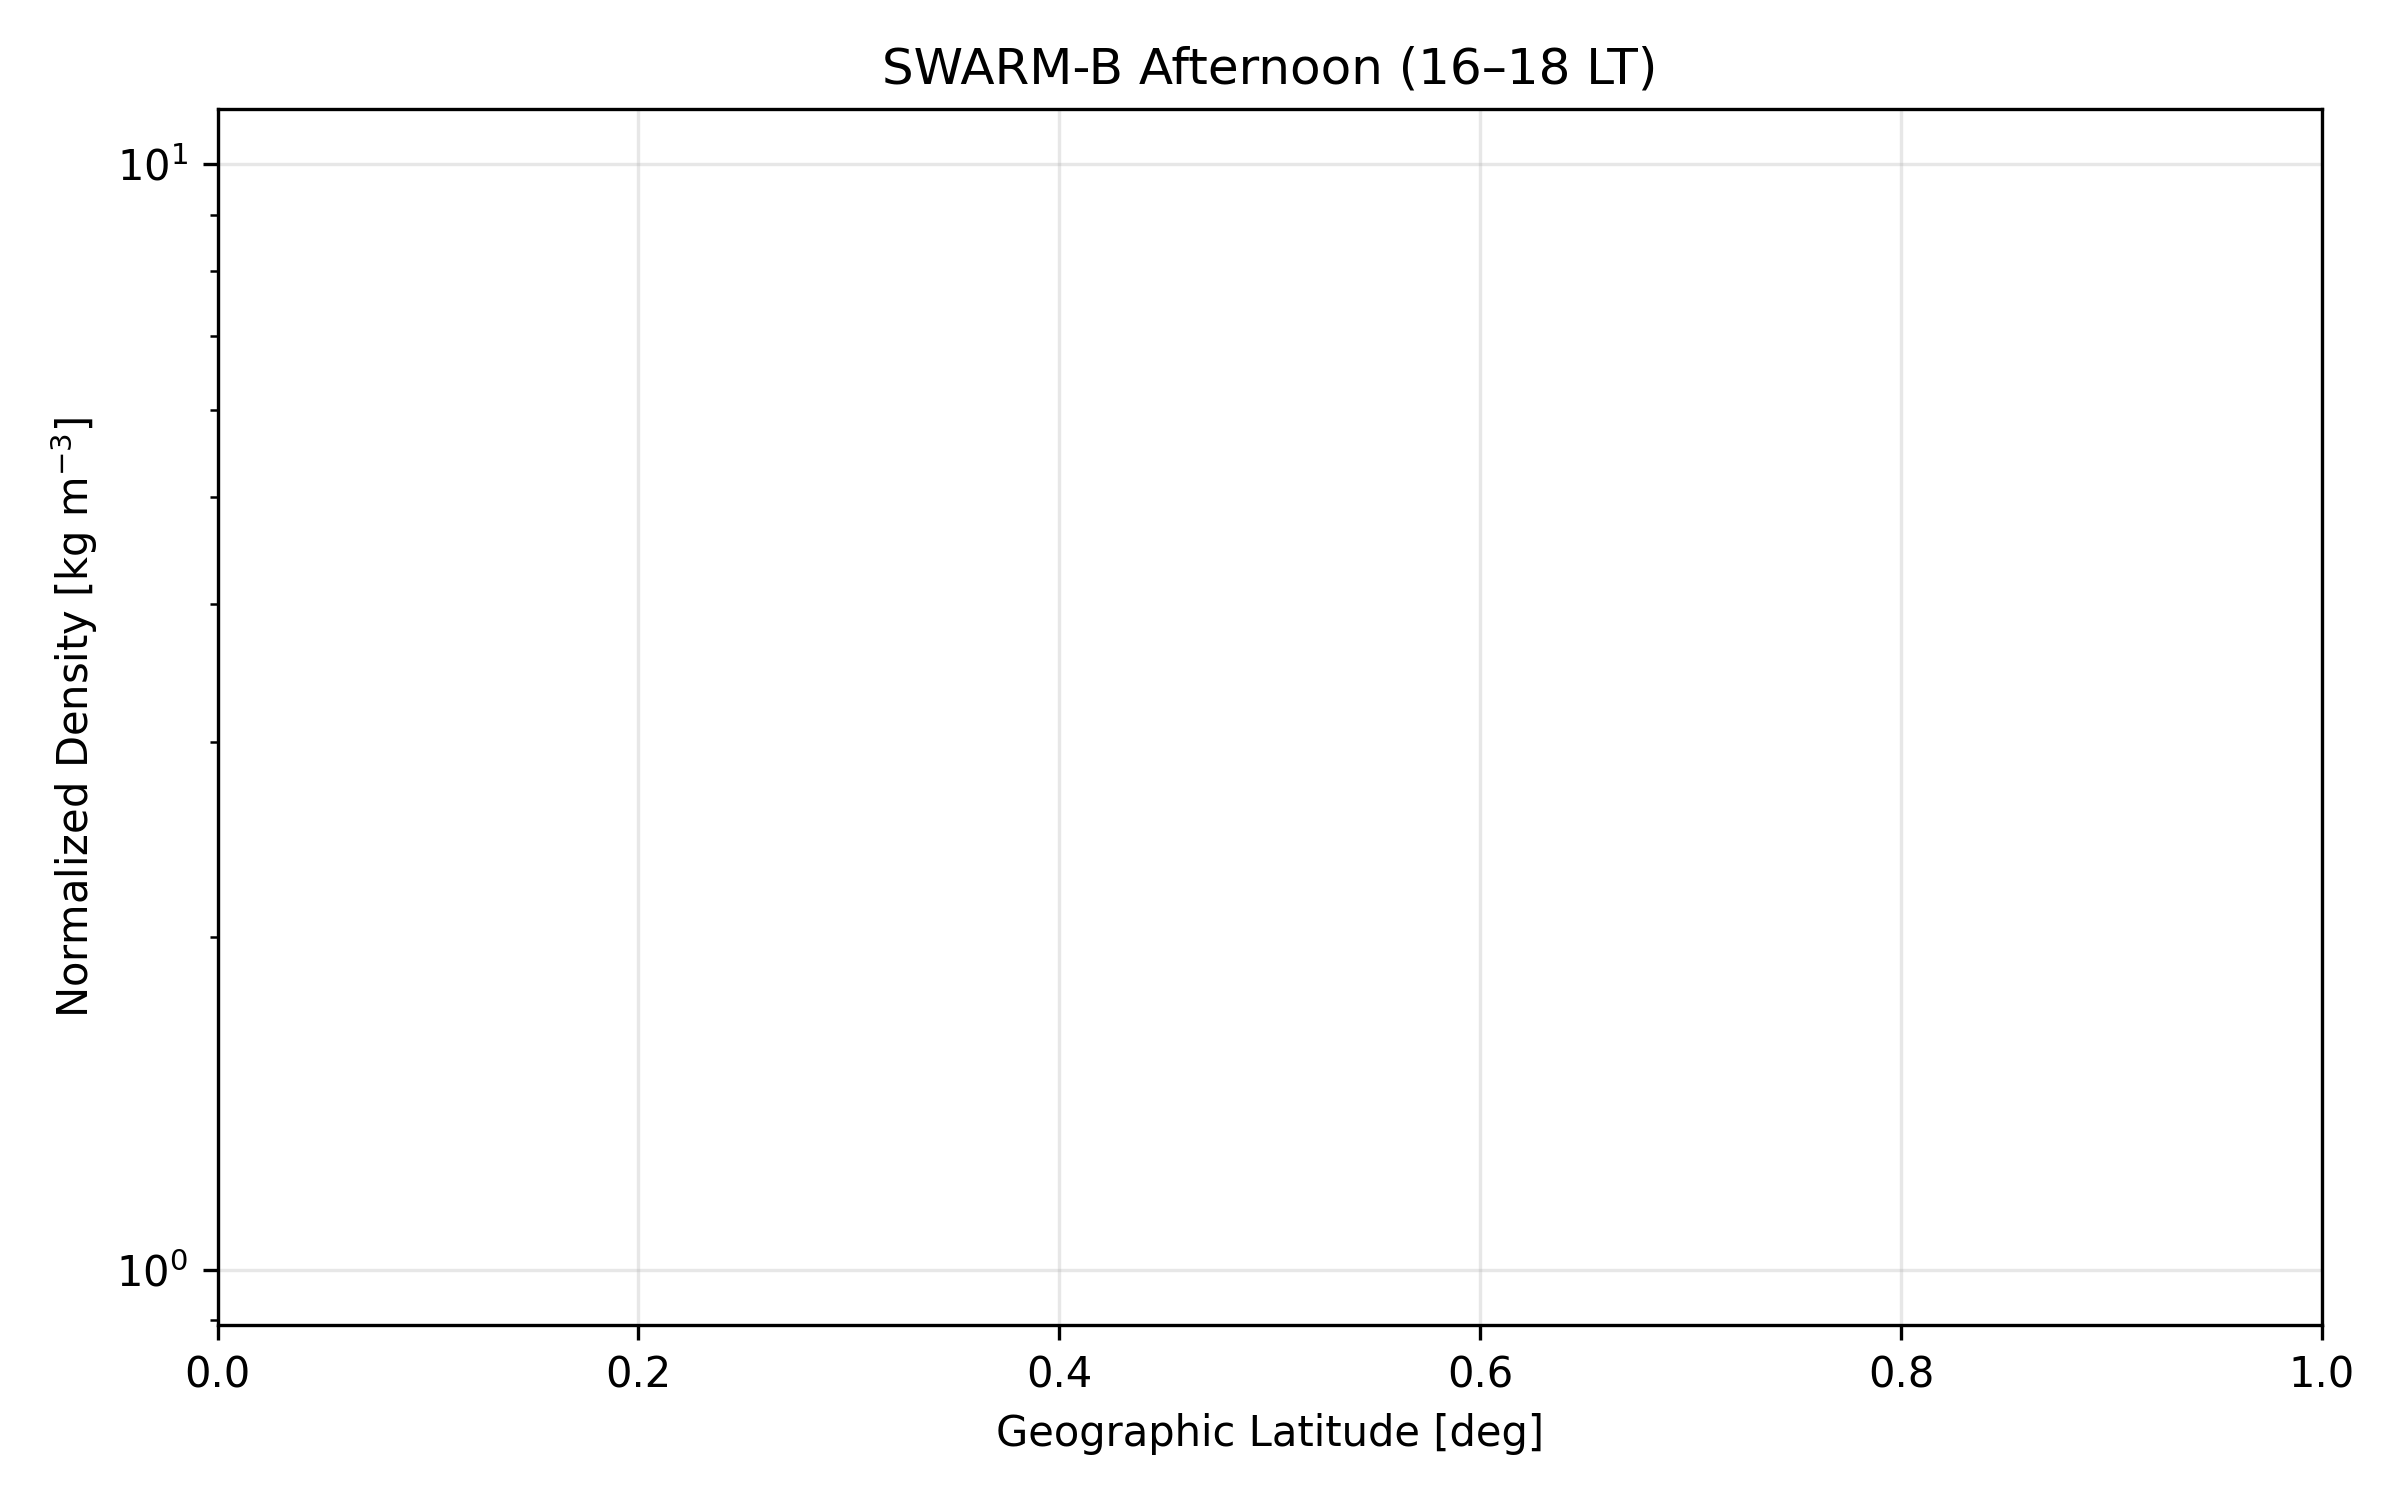
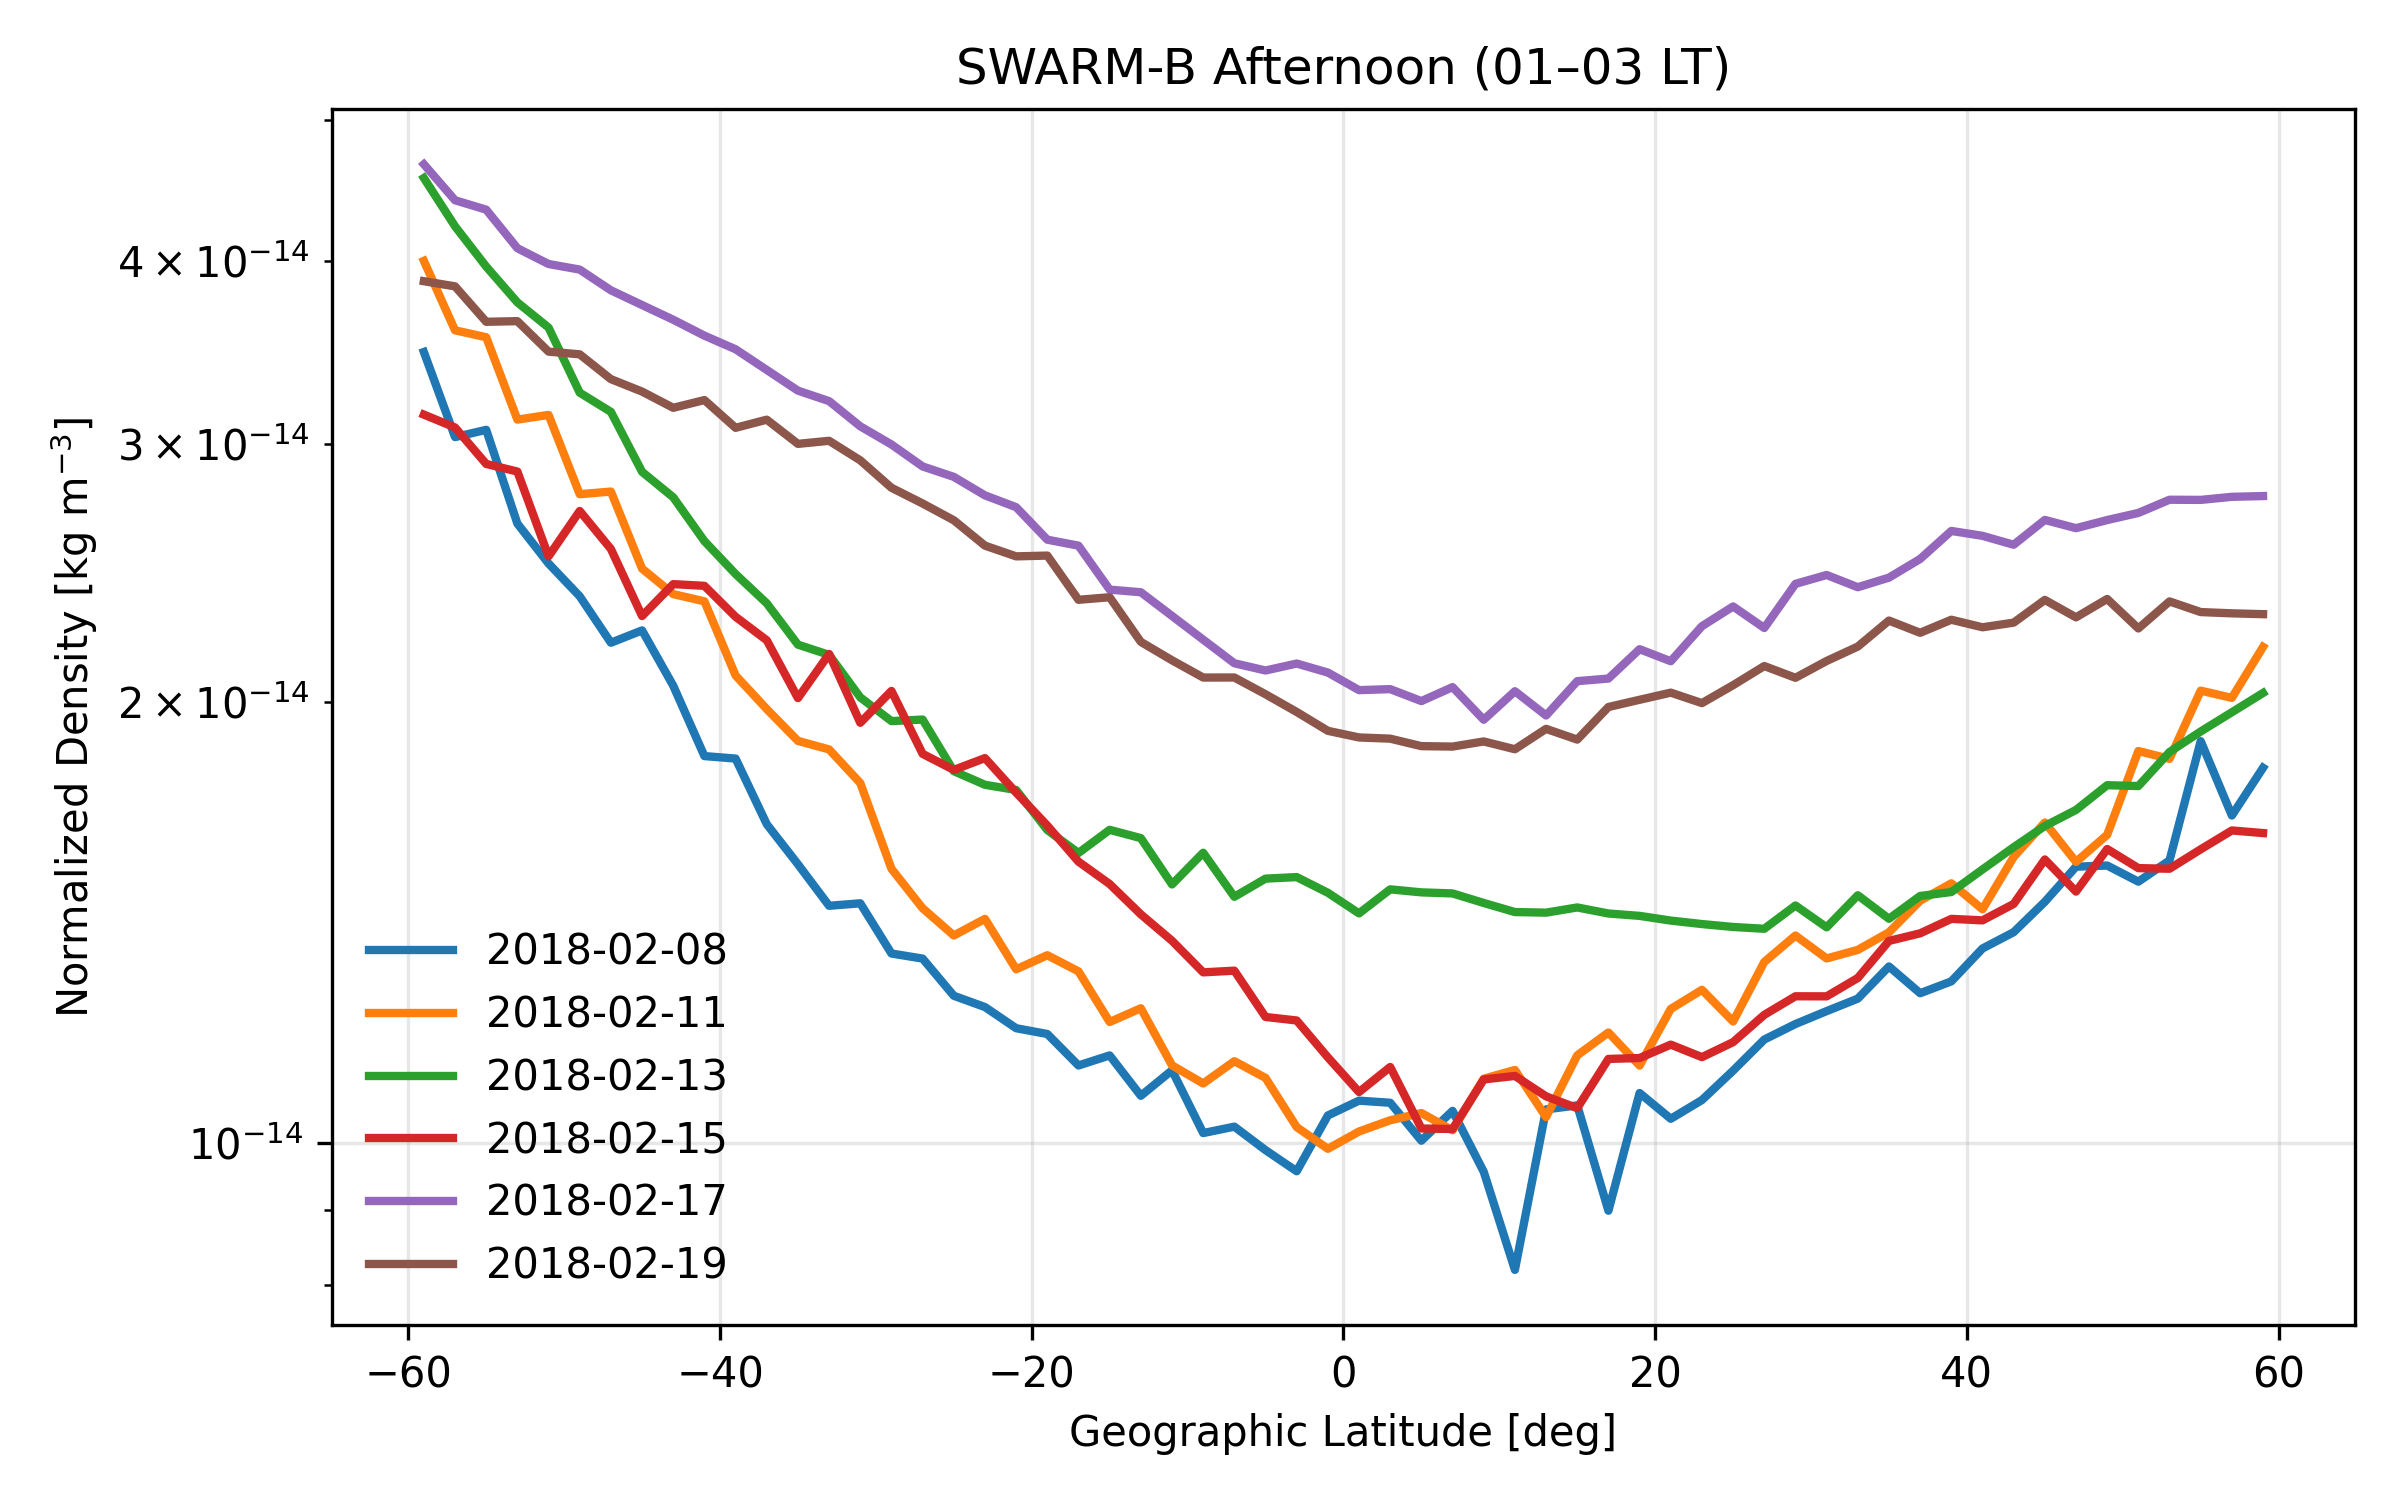
LT別LatDensity

diff --git a/src/LatitudinalProfilesTMD_SWARM-A.py b/src/LatitudinalProfilesTMD_SWARM-A.py
@@ -18,11 +18,11 @@ FILES = {
     "SWARM-C": "normalizeddata/swarm_dnscpod_2018_normalized.parquet",
 }
 
-REP_DATES = ["2018-02-08", "2018-02-11", "2018-02-13", "2018-02-15"]
+REP_DATES = ["2018-02-08", "2018-02-11", "2018-02-13", "2018-02-15" ,"2018-02-17", "2018-02-19"]
 
 LAT_RANGE = (-60, 60)
 LAT_BIN = 2.0
-LT_WINDOW = (7, 9)   # Afternoon sector
+LT_WINDOW = (1, 3)   # Afternoon sector
 
 OUTPUT_DIR = Path("figures")
 OUTPUT_DIR.mkdir(exist_ok=True)
@@ -89,7 +89,7 @@ for sat, fp in FILES.items():
                 lw=2,
                 label=d)
 
-    ax.set_title(f"{sat} Afternoon (16–18 LT)")
+    ax.set_title(f"{sat} Afternoon (01–03 LT)")
     ax.set_xlabel("Geographic Latitude [deg]")
     ax.set_ylabel("Normalized Density [kg m$^{-3}$]")
     ax.grid(alpha=0.3)

diff --git a/src/Density_SWARM-B.py b/src/Density_SWARM-B.py
@@ -7,8 +7,8 @@ T_START = "2018-02-05 00:00:00"
 T_END   = "2018-02-20 23:59:59"
 
 # セクター
-SECTOR_LEFT  = (1, 5)     # 07–09
-SECTOR_RIGHT = (13, 16)   # 18–21
+SECTOR_LEFT  = (1, 3)     # 07–09
+SECTOR_RIGHT = (13, 15)   # 18–21
 
 LAT_MIN, LAT_MAX = -60, 60
 DOY_BIN = 0.5

diff --git a/src/Density_SWARM-C.py b/src/Density_SWARM-C.py
@@ -8,7 +8,7 @@ T_END   = "2018-02-20 23:59:59"
 
 # セクター（あなたが今使っている設定に合わせる）
 SECTOR_LEFT  = (7, 9)     # 07–09
-SECTOR_RIGHT = (18, 21)   # 18–21
+SECTOR_RIGHT = (19, 21)   # 18–21
 
 LAT_MIN, LAT_MAX = -60, 60
 DOY_BIN = 0.5
